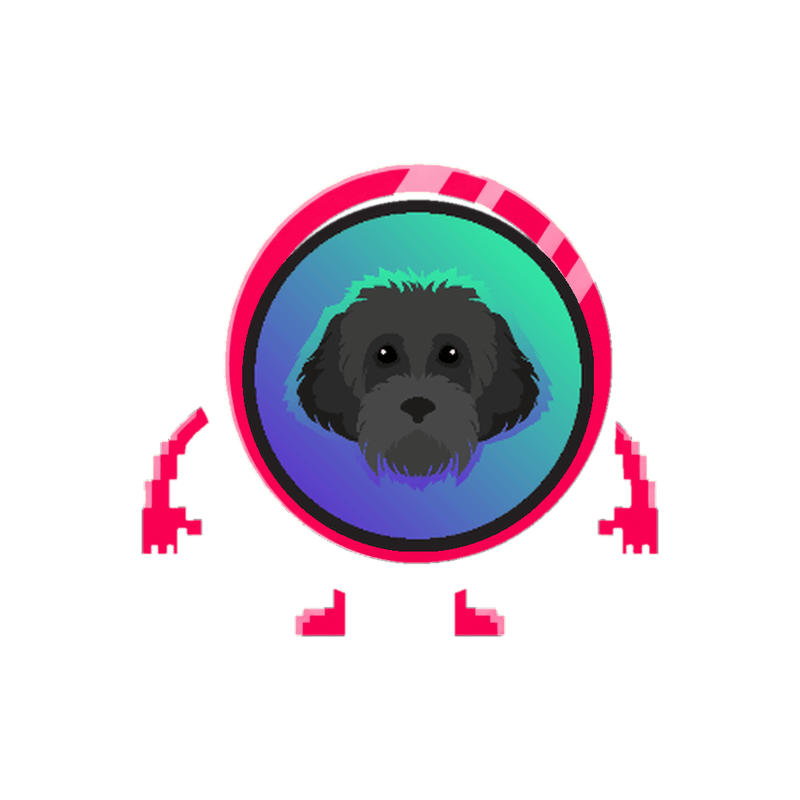
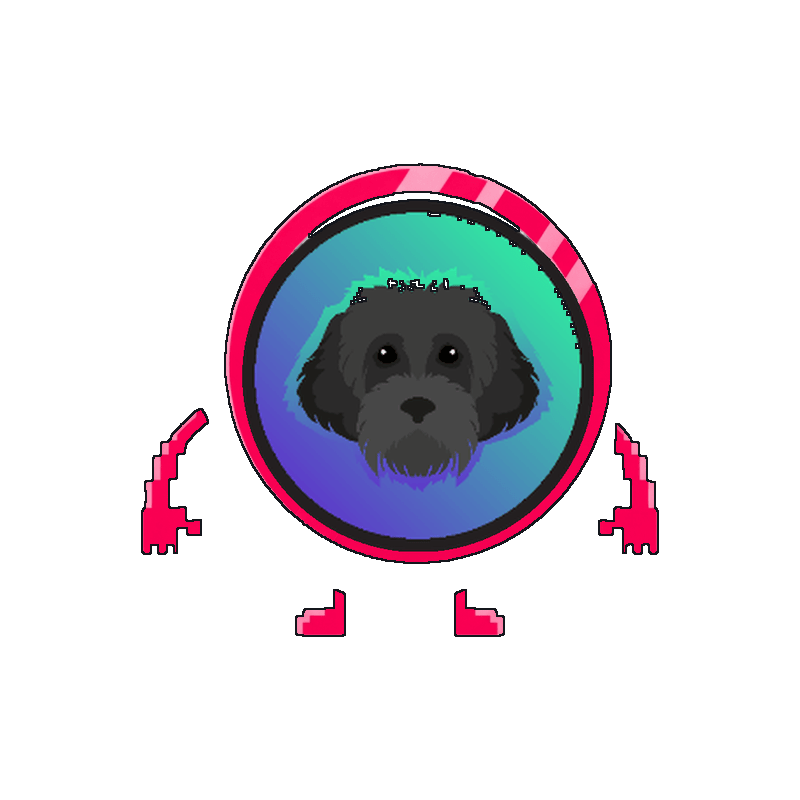
sprites: de-glow coin pngs, keep -glow originals for portraits, add ticker tint colors

diff --git a/app/src/tickers.ts b/app/src/tickers.ts
@@ -6,25 +6,27 @@ export interface TickerEntry {
   ticker: string;
   mint: string;
   sprite: string;
+  /** Dominant sprite color, used for the client-side CSS tint (drop-shadow) instead of the old hue-rotate filter. */
+  color: string;
 }
 
 export const FALLBACK_SPRITE = '/img/coin-base.png';
 
 export const TICKERS: TickerEntry[] = [
-  { ticker: 'BOME', mint: 'ukHH6c7mMyiWCf1b9pnWe25TSpkDDt3H5pQZgZ74J82', sprite: '/tokens/coin-BOME.png' },
-  { ticker: 'BONK', mint: 'DezXAZ8z7PnrnRJjz3wXBoRgixCa6xjnB7YaB1pPB263', sprite: '/tokens/coin-BONK.png' },
-  { ticker: 'FWOG', mint: 'A8C3xuqscfmyLrte3VmTqrAq8kgMASius9AFNANwpump', sprite: '/tokens/coin-FWOG.png' },
-  { ticker: 'GIGA', mint: '63LfDmNb3MQ8mw9MtZ2To9bEA2M71kZUUGq5tiJxcqj9', sprite: '/tokens/coin-GIGA.png' },
-  { ticker: 'MEW', mint: 'MEW1gQWJ3nEXg2qgERiKu7FAFj79PHvQVREQUzScPP5', sprite: '/tokens/coin-MEW.png' },
-  { ticker: 'MOODENG', mint: 'ED5nyyWEzpPPiWimP8vYm7sD7TD3LAt3Q3gRTWHzPJBY', sprite: '/tokens/coin-MOODENG.png' },
-  { ticker: 'MYRO', mint: 'HhJpBhRRn4g56VsyLuT8DL5Bv31HkXqsrahTTUCZeZg4', sprite: '/tokens/coin-MYRO.png' },
-  { ticker: 'PNUT', mint: '2qEHjDLDLbuBgRYvsxhc5D6uDWAivNFZGan56P1tpump', sprite: '/tokens/coin-PNUT.png' },
-  { ticker: 'PONKE', mint: '5z3EqYQo9HiCEs3R84RCDMu2n7anpDMxRhdK8PSWmrRC', sprite: '/tokens/coin-PONKE.png' },
-  { ticker: 'POPCAT', mint: '7GCihgDB8fe6KNjn2MYtkzZcRjQy3t9GHdC8uHYmW2hr', sprite: '/tokens/coin-POPCAT.png' },
-  { ticker: 'SILLY', mint: '7EYnhQoR9YM3N7UoaKRoA44Uy8JeaZV3qyouov87awMs', sprite: '/tokens/coin-SILLY.png' },
-  { ticker: 'SLERF', mint: '9999FVbjHioTcoJpoBiSjpxHW6xEn3witVuXKqBh2RFQ', sprite: '/tokens/coin-SLERF.png' },
-  { ticker: 'WEN', mint: 'WENWENvqqNya429ubCdR81ZmD69brwQaaBYY6p3LCpk', sprite: '/tokens/coin-WEN.png' },
-  { ticker: 'WIF', mint: 'EKpQGSJtjMFqKZ9KQanSqYXRcF8fBopzLHYxdM65zcjm', sprite: '/tokens/coin-WIF.png' },
+  { ticker: 'BOME', mint: 'ukHH6c7mMyiWCf1b9pnWe25TSpkDDt3H5pQZgZ74J82', sprite: '/tokens/coin-BOME.png', color: '#c34dad' },
+  { ticker: 'BONK', mint: 'DezXAZ8z7PnrnRJjz3wXBoRgixCa6xjnB7YaB1pPB263', sprite: '/tokens/coin-BONK.png', color: '#eaab13' },
+  { ticker: 'FWOG', mint: 'A8C3xuqscfmyLrte3VmTqrAq8kgMASius9AFNANwpump', sprite: '/tokens/coin-FWOG.png', color: '#5bcd99' },
+  { ticker: 'GIGA', mint: '63LfDmNb3MQ8mw9MtZ2To9bEA2M71kZUUGq5tiJxcqj9', sprite: '/tokens/coin-GIGA.png', color: '#7b6d41' },
+  { ticker: 'MEW', mint: 'MEW1gQWJ3nEXg2qgERiKu7FAFj79PHvQVREQUzScPP5', sprite: '/tokens/coin-MEW.png', color: '#ed3c47' },
+  { ticker: 'MOODENG', mint: 'ED5nyyWEzpPPiWimP8vYm7sD7TD3LAt3Q3gRTWHzPJBY', sprite: '/tokens/coin-MOODENG.png', color: '#a78756' },
+  { ticker: 'MYRO', mint: 'HhJpBhRRn4g56VsyLuT8DL5Bv31HkXqsrahTTUCZeZg4', sprite: '/tokens/coin-MYRO.png', color: '#73597f' },
+  { ticker: 'PNUT', mint: '2qEHjDLDLbuBgRYvsxhc5D6uDWAivNFZGan56P1tpump', sprite: '/tokens/coin-PNUT.png', color: '#cd966e' },
+  { ticker: 'PONKE', mint: '5z3EqYQo9HiCEs3R84RCDMu2n7anpDMxRhdK8PSWmrRC', sprite: '/tokens/coin-PONKE.png', color: '#d99916' },
+  { ticker: 'POPCAT', mint: '7GCihgDB8fe6KNjn2MYtkzZcRjQy3t9GHdC8uHYmW2hr', sprite: '/tokens/coin-POPCAT.png', color: '#e6a79f' },
+  { ticker: 'SILLY', mint: '7EYnhQoR9YM3N7UoaKRoA44Uy8JeaZV3qyouov87awMs', sprite: '/tokens/coin-SILLY.png', color: '#88aba3' },
+  { ticker: 'SLERF', mint: '9999FVbjHioTcoJpoBiSjpxHW6xEn3witVuXKqBh2RFQ', sprite: '/tokens/coin-SLERF.png', color: '#ebb532' },
+  { ticker: 'WEN', mint: 'WENWENvqqNya429ubCdR81ZmD69brwQaaBYY6p3LCpk', sprite: '/tokens/coin-WEN.png', color: '#5493c2' },
+  { ticker: 'WIF', mint: 'EKpQGSJtjMFqKZ9KQanSqYXRcF8fBopzLHYxdM65zcjm', sprite: '/tokens/coin-WIF.png', color: '#b1845b' },
 ];
 
 export function spriteForTicker(ticker: string): string {

diff --git a/app/src/map-data.ts b/app/src/map-data.ts
@@ -45,7 +45,7 @@ export const ROOM_PX = 400;
 export const ROOM_INSET = 40; // 10% of ROOM_PX
 export const CORRIDOR_W = 100;
 /** How far a corridor rect reaches into its adjoining room's interior, so the two shapes overlap (never just touch). */
-const CORRIDOR_OVERLAP = 30;
+const CORRIDOR_OVERLAP = 80; // must exceed ROOM_INSET (40) or a non-walkable band blocks every doorway
 
 export const ROOMS: RoomDef[] = [
   { id: 'poh', label: 'Reactor', x: 100, y: 600 },

diff --git a/scripts/deglow.py b/scripts/deglow.py
@@ -1,0 +1,85 @@
+#!/usr/bin/env python3
+"""Strip the outer neon-green halo from coin sprites, leaving the character
+silhouette plus a thin dark outline. Keeps the original as *-glow.png
+(used for meeting portraits) and overwrites the source with the de-glowed
+version (used for in-world sprites).
+
+Approach: the glow is a bright, low-saturation-of-hue-but-high-green ring
+around the character with partial alpha. We erode the alpha channel using a
+green-glow color test (green channel dominant and bright) combined with an
+alpha threshold, then re-composite a solid dark outline just inside the
+eroded edge.
+"""
+import sys
+from pathlib import Path
+from PIL import Image, ImageFilter
+
+GLOW_G_MIN = 170      # glow pixels are strongly green
+GLOW_RB_MAX = 140      # ...and comparatively low in red/blue
+ALPHA_KEEP = 40        # below this alpha, pixel is background already
+OUTLINE_PX = 2
+
+
+def is_glow(px):
+    r, g, b, a = px
+    if a < ALPHA_KEEP:
+        return False
+    return g >= GLOW_G_MIN and r <= GLOW_RB_MAX and b <= GLOW_RB_MAX
+
+
+def deglow(im: Image.Image) -> Image.Image:
+    im = im.convert("RGBA")
+    w, h = im.size
+    px = im.load()
+
+    # Build a silhouette mask: 255 where pixel is opaque AND not glow-colored.
+    mask = Image.new("L", (w, h), 0)
+    mpx = mask.load()
+    for y in range(h):
+        for x in range(w):
+            p = px[x, y]
+            mpx[x, y] = 0 if is_glow(p) else (255 if p[3] >= ALPHA_KEEP else 0)
+
+    # Erode a couple px to eat any anti-aliased glow fringe left behind.
+    mask = mask.filter(ImageFilter.MinFilter(3))
+    mask = mask.filter(ImageFilter.MinFilter(3))
+
+    # Dark outline: dilate the eroded mask, subtract the mask itself -> ring.
+    dilated = mask
+    for _ in range(OUTLINE_PX):
+        dilated = dilated.filter(ImageFilter.MaxFilter(3))
+
+    out = Image.new("RGBA", (w, h), (0, 0, 0, 0))
+    opx = out.load()
+    dpx = dilated.load()
+    mpx2 = mask.load()
+    for y in range(h):
+        for x in range(w):
+            if mpx2[x, y] >= 128:
+                opx[x, y] = px[x, y]
+            elif dpx[x, y] >= 128:
+                opx[x, y] = (20, 22, 28, 255)  # thin dark outline
+    return out
+
+
+def process(path: Path) -> None:
+    im = Image.open(path)
+    glow_path = path.with_name(f"{path.stem}-glow{path.suffix}")
+    if not glow_path.exists():
+        im.convert("RGBA").save(glow_path)
+    deglow(im).save(path)
+    print(f"deglowed {path}")
+
+
+def main() -> None:
+    roots = [Path("app/public/tokens"), Path("app/public/img")]
+    targets: list[Path] = []
+    for root in roots:
+        targets.extend(sorted(root.glob("coin-*.png")))
+    targets = [t for t in targets if "-glow" not in t.stem]
+    for t in targets:
+        process(t)
+
+
+if __name__ == "__main__":
+    main()
